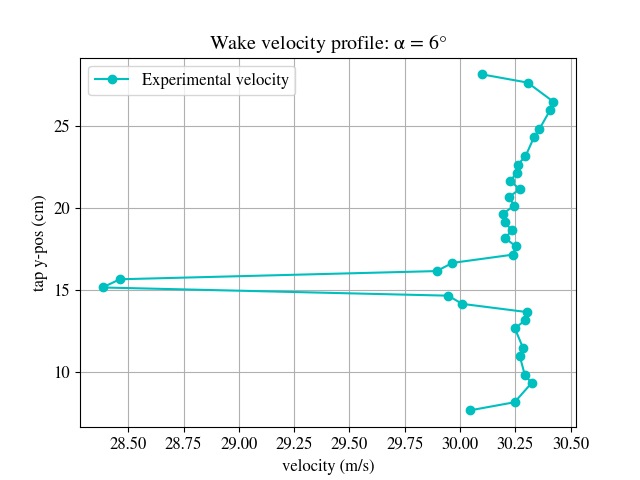
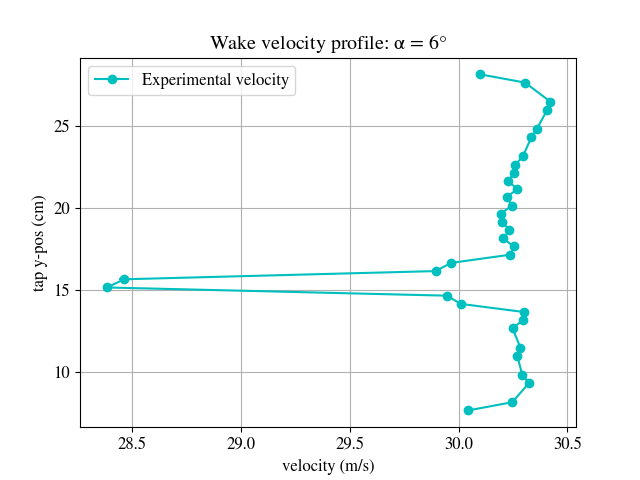
graphs with errs

diff --git a/src/main.py b/src/main.py
@@ -27,7 +27,7 @@ air_top_tap_pos = [0, 0.03, 0.06, 0.10, 0.15, 0.20, 0.30, 0.40, 0.55, 0.70, 0.85
 air_bot_tap_pos = [0.90, 0.60, 0.40, 0.30, 0.20, 0.10, 0.05]
 
 # Angles of Attack
-alpha = [0, 4, 6, 8, 9, 10, 11, 12, 13, 14, 15, 17]
+alpha = [0, 4, 6, 8, 9, 10, 11, 12, 13, 14, 15, 17] #12
 
 # calibration data
 gain = 115 # From in lab calibration code
@@ -37,6 +37,8 @@ Hg2Pa = 9.80665 #inHg to Pa convertion factor
 # baselines of rake positions:
 y_0 = np.array([12, 12, 11.5, 11, 11.5, 11, 11.5, 12.5, 11.5, 12, 12.4, 12]) - 3.33 # inital position of the bottom port
 dir = [1, -1, -1, 1, -1, 1, 1, -1, -2, 1, -1, 1] #direction rake was moved -1 = down 1 = up
+
+
 
 # LOADING CLARK_Y_AIRFOIL COORDINATES
 ##############################
@@ -58,26 +60,34 @@ for i in range(1,len(data)):
 airfoil_top = np.array(airfoil_top)*0.1  # Multiplying values by cord length (values given are per unit cord)
 airfoil_bot = np.array(airfoil_bot)*0.1 # Multiplying values by cord length (values given are per unit cord)
 
+
+
 pressure_data = []
 # PROCESSING DATA
 ########################
 for i,a in enumerate(alpha):
 
-    data = io.loadmat(".\data\Filtered\Experimental_data_%d.mat"%a)
+    # this data was pre-filtered in matlab
+    # errors were calculated in errcalc.py
+    data_raw = io.loadmat(".\data\Filtered\Experimental_data_%d.mat"%a)
     # ['__header__', '__version__', '__globals__', 'AoA', 'ask', 'None', 
     # 'f_s', 'i', 'k', 'p_airfoil', 'p_rake1', 'p_rake2', 'prompt', 'spdata', 'sptime', 
     # 't_s', 'wpdata', 'wpdata2', 'wptime1', 'wptime2', 'x', 'y', 'y2', '__function_workspace__']
 
+
+
     # data calibration:
-    p_top = (data['p_airfoil'][0][0:12]*gain + offset)*Hg2Pa
-    p_bot = (data['p_airfoil'][0][12:19]*gain + offset)*Hg2Pa
-    p_r1 = (data['p_rake1']*gain + offset)*Hg2Pa
-    p_r2 = (data['p_rake2']*gain + offset)*Hg2Pa
+    p_top = (data_raw['p_airfoil'][0][0:12]*gain + offset)*Hg2Pa
+    p_bot = (data_raw['p_airfoil'][0][12:19]*gain + offset)*Hg2Pa
+    p_r1 = (data_raw['p_rake1']*gain + offset)*Hg2Pa
+    p_r2 = (data_raw['p_rake2']*gain + offset)*Hg2Pa
     
-    p = (data['p_airfoil'][0]*gain + offset)*Hg2Pa
+    p = (data_raw['p_airfoil'][0]*gain + offset)*Hg2Pa
     pressure_data.append(list(map(float, p)))
     
 
+
+    #extracting error data from csv:
     p_r1_err = np.zeros_like(p_r1) #temp
     p_r2_err = np.zeros_like(p_r2) #temp
     p_top_err = np.zeros_like(p_top) #temp
@@ -85,36 +95,43 @@ for i,a in enumerate(alpha):
 
     with open('data\CSV\dP_airfoil.csv') as f:
         reader = csv.reader(f)
-        data = list(reader)
-        data = [eval(e) for e in data[0]]
-        # print(len(data))
-    p_top_err = data[0:12]
-    p_bot_err = data[12:19]
+        data_err_a = list(reader)
+        data_err_a = [eval(e) for e in data_err_a[i]]
+        p_top_err = data_err_a[0:12]
+        p_bot_err = data_err_a[12:19]
+
+    with open('data\CSV\dP_rakepos1.csv') as f:
+        reader = csv.reader(f)
+        data_err_r1 = list(reader)
+        data_err_r1 = [eval(e) for e in data_err_r1[i]]
+        p_r1_err = np.array(data_err_r1)
+
+    with open('data\CSV\dP_rakepos2.csv') as f:
+        reader = csv.reader(f)
+        data_err_r2 = list(reader)
+        data_err_r2 = [eval(e) for e in data_err_r2[i]]
+        p_r2_err = np.array(data_err_r2)
+
+
 
     # finding the wake velocity distribution:
     pos_r1 = y_0[i]
     pos_r2 = y_0[i] + dir[i]*0.5
-    U_inf, U_inf_err, V_r, V_r_err, V_pos, v_r1, v_r2, pos_r1, pos_r2 = Velocity(p_r1, p_r2, p_r1_err, p_r2_err, pos_r1, pos_r2)
+    U_inf, U_inf_err, V_r, V_r_err, V_pos= Velocity(p_r1, p_r2, p_r1_err, p_r2_err, pos_r1, pos_r2)
 
-    # VelGraph(a, V_r, V_r_err, V_pos)
+    VelGraph(a, V_r, V_r_err, V_pos)
 
-    # plt.plot(V_r, V_pos)
-    # # plt.plot(v_r1[0], pos_r1)
-    # # plt.plot(v_r2[0], pos_r2)
-    # plt.title(i)
-    # plt.show()
 
-    # print(U_inf, U_inf_err)
     
     #finding the dynamic freestream pressure
     q_inf, q_inf_err = DynPressure(U_inf, U_inf_err)
 
+
+
     #finding the Cp distribution over the airfoil
     Cp_top, Cp_bot, Cp_top_err, Cp_bot_err = Cpressure(p_top, p_bot, p_top_err, p_bot_err, q_inf, q_inf_err)
-    # print((Cp_top_err))
 
-    #CP PLOTTING TEMP:
-    # CpGraph(a, Cp_top, Cp_bot, Cp_top_err, Cp_bot_err)
+    CpGraph(a, Cp_top, Cp_bot, Cp_top_err, Cp_bot_err)
 
     
 

diff --git a/src/errorcalcs.py b/src/errorcalcs.py
@@ -24,13 +24,16 @@ offset = 50 # From in lab calibration code
 Hg2Pa = 9.80665 #inHg to Pa convertion factor
 
 # Angles of Attack
-alpha = [0, 4, 6, 8, 9, 10, 11, 12, 14, 15, 17]
+alpha = [0, 4, 6, 8, 9, 10, 11, 12, 13, 14, 15, 17]
 
 dP_a = np.zeros((len(alpha), 19))
 dP_r1 = np.zeros((len(alpha), 17))
 dP_r2 = np.zeros((len(alpha), 17))
 
 for i, a in enumerate(alpha):
+
+    a = 13
+    i = 8
 
     data = io.loadmat(".\data\Filtered\Experimental_data_%d.mat"%a)
     # ['__header__', '__version__', '__globals__', 'AoA', 'ask', 'None', 
@@ -44,7 +47,12 @@ for i, a in enumerate(alpha):
         if (k < 18):
             dP_r1[i, k-1] = DataErr((data['wpdata'][k-1]*gain + offset)*Hg2Pa)
             dP_r2[i, k-1] = DataErr((data['wpdata2'][k-1]*gain + offset)*Hg2Pa)
+    
+    print(dP_a)
+    print(dP_r1)
+    print(dP_r2)
 
+    exit()
 # Saving data to CSV files
 
 np.savetxt("data\CSV\dP_airfoil.csv", dP_a, delimiter=",")

diff --git a/src/Velocity.py b/src/Velocity.py
@@ -70,7 +70,7 @@ def Velocity(p_r1: np.array, p_r2: np.array, p_r1_err: np.array, p_r2_err: np.ar
                 V_r.append(v_r1[0][int((i-1)/2)])
                 V_r_err.append(v_r1_err[0][int((i-1)/2)])
 
-    return U_inf, U_inf_err, V_r, V_r_err, V_pos, v_r1, v_r2, pos_r1, pos_r2
+    return U_inf, U_inf_err, V_r, V_r_err, V_pos
 
 def DynPressure(U_inf: np.float64, U_inf_err: np.float64):
 
